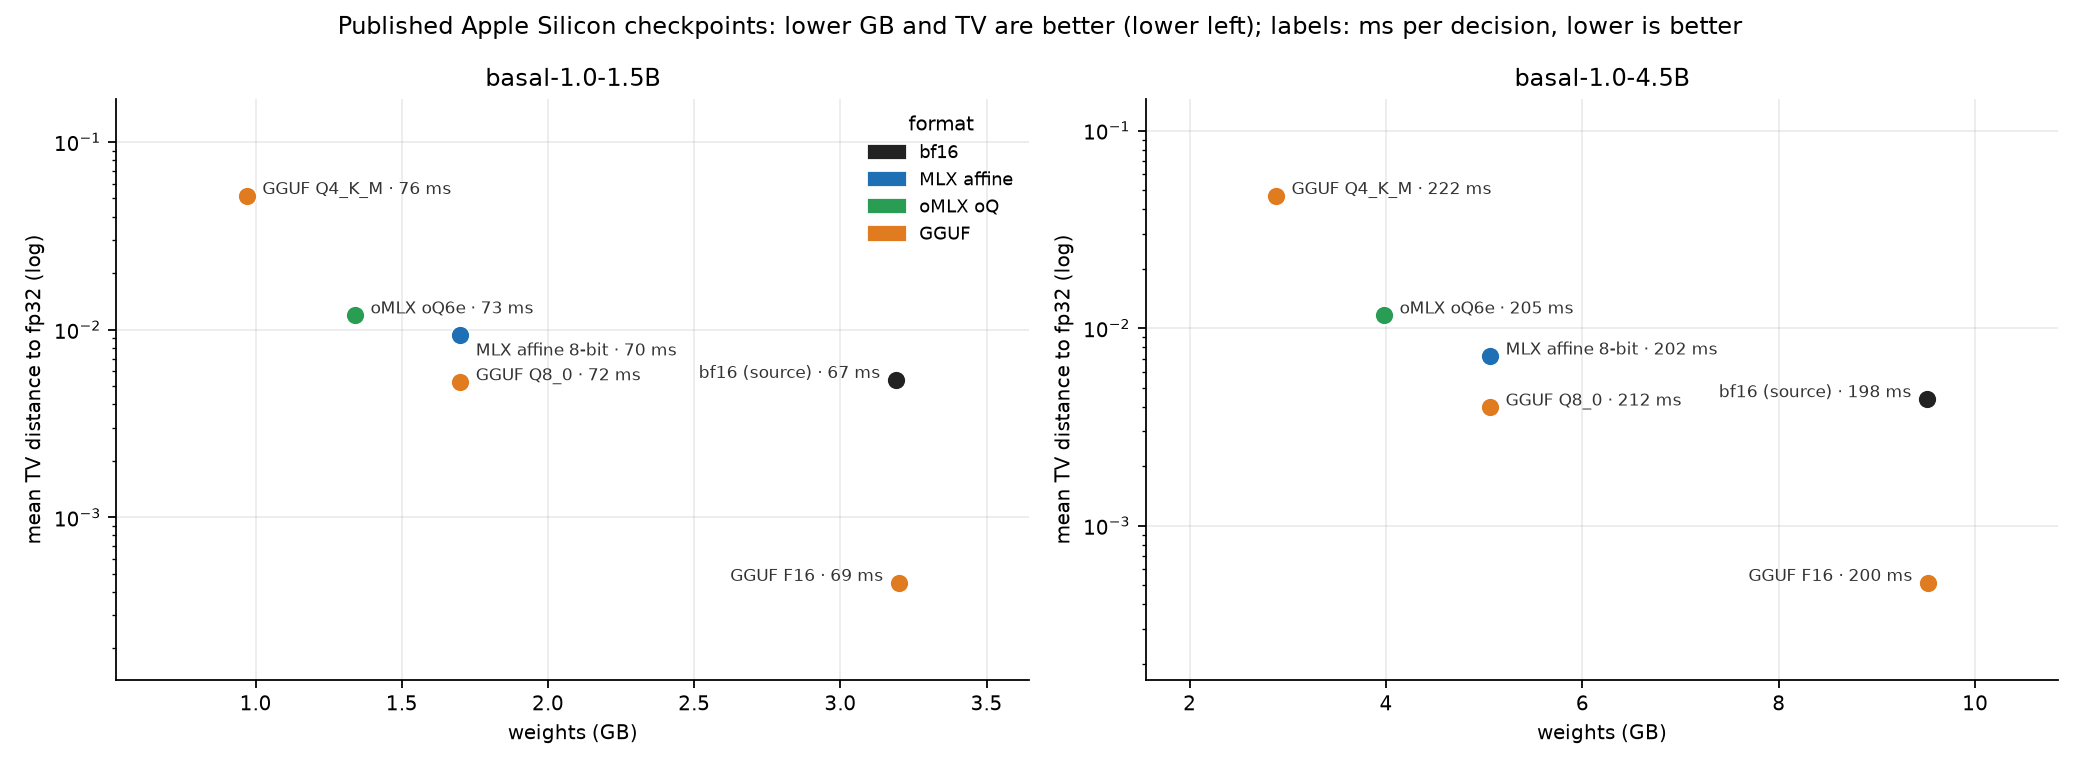
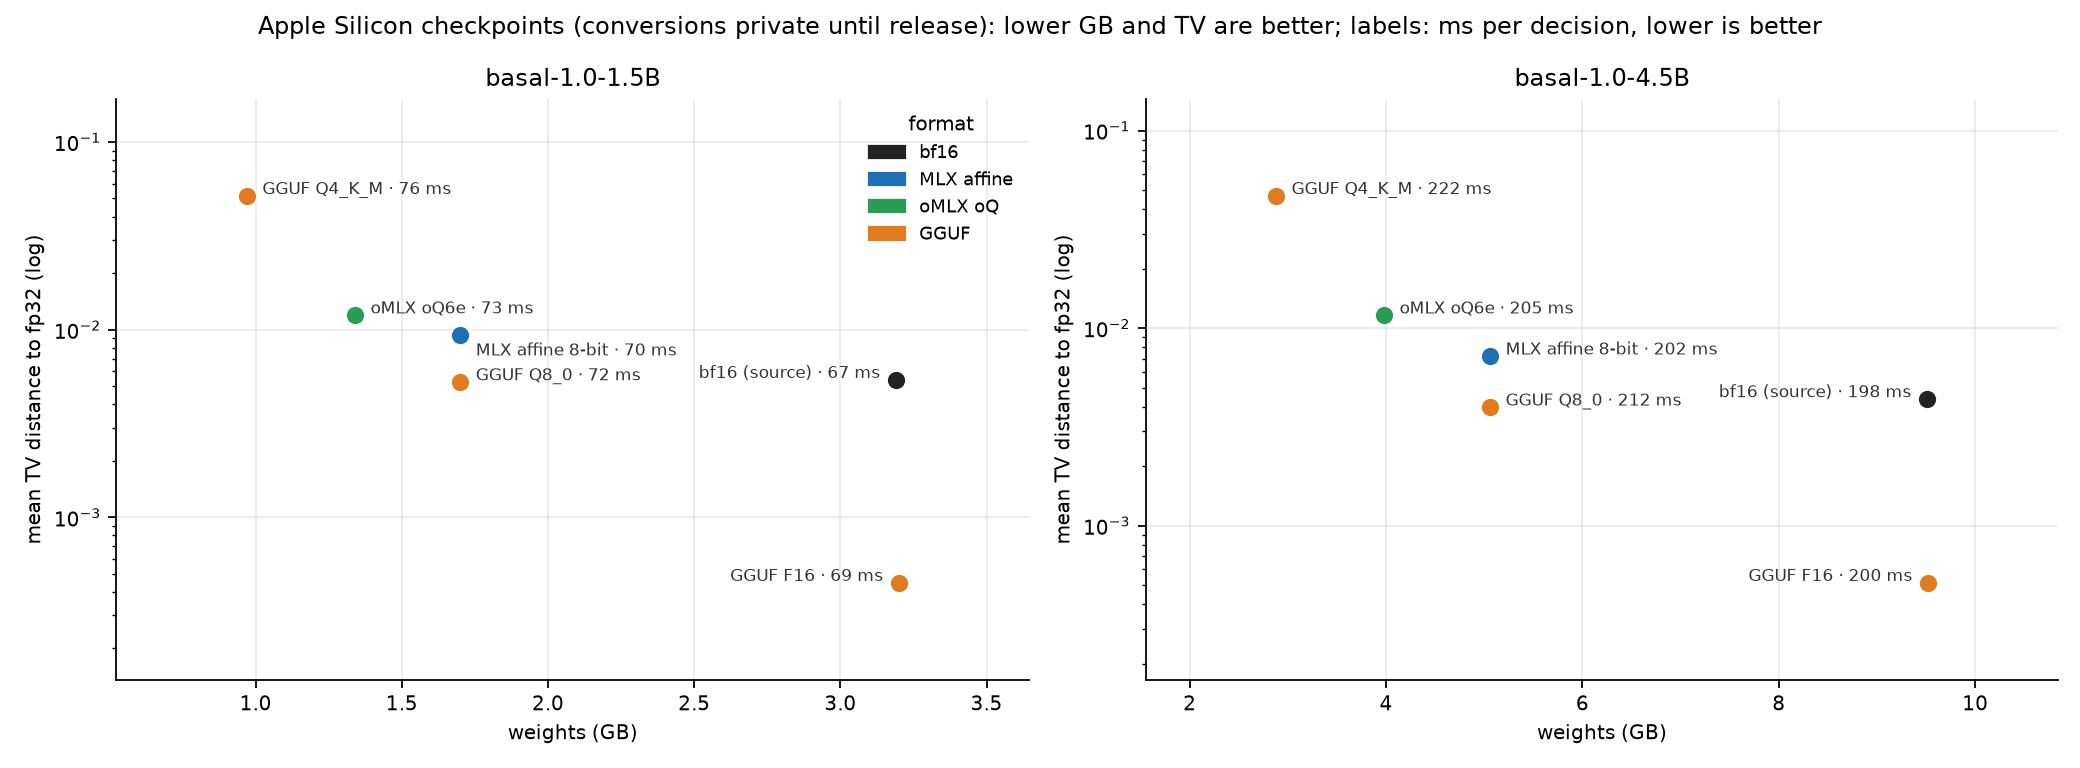
docs: mark converted checkpoints private until release

Changed region(s): [[0.125, 0.0, 0.875, 0.0625]]

diff --git a/docs/figures/make_figures.py b/docs/figures/make_figures.py
@@ -233,15 +233,15 @@ def gold_prob_heatmap():
     fig.savefig(HERE / "apple_gold_prob_heatmap.png")
 
 
-# checkpoints published on Hugging Face (README, "Ready-made Apple Silicon checkpoints"); keys of D["formats"]
-PUBLISHED = {"basal-mlx", "basal-gguf:F16", "basal-gguf:Q8_0", "basal-gguf:Q4_K_M", "mlx-q8", "mlx-oQ6e"}
+# Selected checkpoints (original bf16 is public; converted repos are private until release); keys of D["formats"]
+SELECTED = {"basal-mlx", "basal-gguf:F16", "basal-gguf:Q8_0", "basal-gguf:Q4_K_M", "mlx-q8", "mlx-oQ6e"}
 
 
 def memory_vs_fidelity():
-    """The published checkpoints of both models: memory vs faithfulness, latency in the labels."""
+    """Selected checkpoints of both models: memory vs faithfulness, latency in the labels."""
     fig, axes = plt.subplots(1, 2, figsize=(13, 4.8))
     for ax, model in zip(axes, ("1.5B", "4.5B")):
-        rows = [r for r in D["formats"][model] if r["key"] in PUBLISHED]
+        rows = [r for r in D["formats"][model] if r["key"] in SELECTED]
         for r in rows:
             ax.scatter(r["gb"], max(r["tv_mean"], TV_FLOOR), s=70, color=FORMAT_COLORS[r["family"]], zorder=3,
                        edgecolor="white", linewidth=0.6)
@@ -253,12 +253,12 @@ def memory_vs_fidelity():
         ax.grid(alpha=0.25)
         if model == "1.5B":
             format_legend(ax, families={r["family"] for r in rows}, loc="upper right", fontsize=8)
-    fig.suptitle("Published Apple Silicon checkpoints: lower GB and TV are better (lower left); "
+    fig.suptitle("Apple Silicon checkpoints (conversions private until release): lower GB and TV are better; "
                  "labels: ms per decision, lower is better", fontsize=11)
     fig.tight_layout()
     fig.canvas.draw()
     for ax, model in zip(axes, ("1.5B", "4.5B")):
-        rows = [r for r in D["formats"][model] if r["key"] in PUBLISHED]
+        rows = [r for r in D["formats"][model] if r["key"] in SELECTED]
         place_labels(ax, [(r["gb"], max(r["tv_mean"], TV_FLOOR),
                            f"{r['label']} · {r['ms']:.0f} ms")
                           for r in sorted(rows, key=lambda r: r["gb"])])
@@ -269,11 +269,11 @@ FORMAT_COLORS = {"bf16": "#222222", "MLX affine": "#1f6fb4", "MLX microscaling":
                  "GGUF": "#e07b1f"}
 
 
-def format_legend(ax, published=False, families=None, **kw):
+def format_legend(ax, selected=False, families=None, **kw):
     handles = [Patch(color=c, label=f) for f, c in FORMAT_COLORS.items() if families is None or f in families]
-    if published:
+    if selected:
         handles.append(plt.Line2D([], [], marker="o", color="w", markerfacecolor="#ccc", markeredgecolor="black",
-                                  markeredgewidth=1.6, markersize=9, label="published on Hugging Face"))
+                                  markeredgewidth=1.6, markersize=9, label="selected (converted repos private)"))
     ax.legend(handles=handles, title="format", frameon=False, **kw)
 
 
@@ -282,9 +282,10 @@ def formats_size_vs_fidelity():
     for ax, model in zip(axes, ("1.5B", "4.5B")):
         rows = D["formats"][model]
         for r in rows:
-            pub = r["key"] in PUBLISHED
-            ax.scatter(r["gb"], max(r["tv_mean"], TV_FLOOR), s=90 if pub else 55, color=FORMAT_COLORS[r["family"]],
-                       zorder=4 if pub else 3, edgecolor="black" if pub else "white", linewidth=1.6 if pub else 0.6)
+            selected = r["key"] in SELECTED
+            ax.scatter(r["gb"], max(r["tv_mean"], TV_FLOOR), s=90 if selected else 55, color=FORMAT_COLORS[r["family"]],
+                       zorder=4 if selected else 3, edgecolor="black" if selected else "white",
+                       linewidth=1.6 if selected else 0.6)
         ax.set_yscale("log")
         ax.margins(x=0.15, y=0.2)
         ax.set_xlabel("weights on disk (GB)")
@@ -292,7 +293,7 @@ def formats_size_vs_fidelity():
         ax.set_title(f"basal-1.0-{model}: {len(rows)} formats (all ~same speed, see table)")
         ax.grid(alpha=0.25, zorder=0)
         if model == "1.5B":
-            format_legend(ax, published=True, loc="upper right")
+            format_legend(ax, selected=True, loc="upper right")
     fig.suptitle(f"Quantised formats on {D['machine']}: lower disk GB and TV are better (lower left)", fontsize=11)
     fig.tight_layout()
     fig.canvas.draw()

diff --git a/README.md b/README.md
@@ -141,19 +141,19 @@ basal-serve --model Remek/basal-1.0-4.5B --mode fast --port 8000
 ### Apple Silicon (MLX / MPS)
 
 On a Mac with an M-series chip no CUDA index is needed: the PyPI torch wheel includes MPS, and the `mlx` extra adds
-[MLX](https://github.com/ml-explore/mlx). These backends are on the fork's `dev` branch, not yet in
-[`rkinas/basal`](https://github.com/rkinas/basal). After the GGUF/Ollama PR merges into `dev`, install both from
-there; to try that PR before the merge, substitute `feat/gguf-llamacpp` for `dev`:
+[MLX](https://github.com/ml-explore/mlx). Both backends are on the fork's `main` branch, not yet in
+[`rkinas/basal`](https://github.com/rkinas/basal). Install from the fork:
 
 ```bash
-git clone --branch dev https://github.com/pawelkiszczak/basal && cd basal
+git clone --branch main https://github.com/pawelkiszczak/basal && cd basal
 uv venv --python 3.12 .venv && source .venv/bin/activate
 uv pip install -e ".[mlx,gguf]"
 basal-serve --model Remek/basal-1.0-4.5B --port 8000        # default on Apple Silicon: --mode mlx
 ```
 
-Ready-made Apple Silicon checkpoints (measured on an M4 Max; all run at the same speed, they differ in memory and in
-how closely they follow the fp32 reference, see [docs/HARDWARE.md](docs/HARDWARE.md#quantised-formats-mlx-omlx-oq-gguf)):
+Ready-made Apple Silicon checkpoints (the converted repos linked below are **private until their publisher releases
+them**; the original bf16 repos are public). Measured on an M4 Max; all run at about the same speed, but differ in
+memory and fidelity ([details](docs/HARDWARE.md#quantised-formats-mlx-omlx-oq-gguf)):
 
 | use | 4.5B | 1.5B | start with |
 |---|---|---|---|
@@ -164,10 +164,10 @@ how closely they follow the fp32 reference, see [docs/HARDWARE.md](docs/HARDWARE
 
 The MLX repositories include `CALIBRATION.json`, so `--model pawelkiszczak/basal-1.0-4.5B-MLX-8bit` is all the server
 needs; for GGUF, `--model` stays the original repository (tokenizer and calibration) and `--gguf` points to the
-downloaded file ([docs/GGUF.md](docs/GGUF.md)). GGUF Q4_K_M is published but not recommended: it changes some
-decisions. The other measured 4-bit formats are not published.
+downloaded file ([docs/GGUF.md](docs/GGUF.md)). GGUF Q4_K_M is staged in a private repo but not recommended: it
+changes some decisions. The other measured 4-bit formats are not staged.
 
-![Published Apple Silicon checkpoints: memory vs faithfulness](docs/figures/apple_memory_vs_fidelity.png)
+![Selected Apple Silicon checkpoints: memory vs faithfulness](docs/figures/apple_memory_vs_fidelity.png)
 
 - `mlx` (default when MLX and mlx-lm are installed) and `mps` (PyTorch) both use the shared prefix and batching of
   `fast`. Neither compiles; startup still includes model download and loading. Agreement with the fp32 reference on the

diff --git a/docs/HARDWARE.md b/docs/HARDWARE.md
@@ -17,7 +17,7 @@ on a private 500-item sample of the Polish/English test split.
 | Desktop with unified memory (DGX Spark GB10) | `fp8` | memory-bandwidth-bound; FP8 halves latency |
 | Batched high-throughput serving on Blackwell | `vllm` + `-NVFP4` checkpoint | 3.2× throughput on the DGX Spark (the only machine where it was measured), but −3 accuracy points |
 | A100 and other GPUs without FP8 (not measured) | `fast` | the bf16 path runs on any sm80+ GPU |
-| Apple Silicon (M-series Mac) | `mlx` with the original checkpoint; `gguf` with the F16 GGUF for the closest match to fp32; 8-bit / oQ6e checkpoints on 16 GB Macs | compute-bound: every format runs at the same speed, quantised weights only save memory; published checkpoints in the [README](../README.md#apple-silicon-mlx--mps), details in [Apple Silicon](#apple-silicon) |
+| Apple Silicon (M-series Mac) | `mlx` with the original checkpoint; `gguf` with the F16 GGUF for the closest match to fp32; 8-bit / oQ6e checkpoints on 16 GB Macs | compute-bound: every format runs at the same speed, quantised weights only save memory; converted repos in the [README](../README.md#apple-silicon-mlx--mps) remain private until release |
 
 Add `--mode fast-exit` to let requests choose `"early_exit": "0.99"` (about 1.15× faster, agreement ≥ 0.99).
 
@@ -207,7 +207,7 @@ the same items are wrong in every faithful engine.
 
 #### Quantised formats: MLX, oMLX oQ, GGUF
 
-Published conversions: [MLX 8-bit](https://huggingface.co/pawelkiszczak/basal-1.0-4.5B-MLX-8bit) and
+Staged conversions (private until the publisher releases them): [MLX 8-bit](https://huggingface.co/pawelkiszczak/basal-1.0-4.5B-MLX-8bit) and
 [oQ6e](https://huggingface.co/pawelkiszczak/basal-1.0-4.5B-oQ6e) of the 4.5B,
 [MLX 8-bit](https://huggingface.co/pawelkiszczak/basal-1.0-1.5B-MLX-8bit) and
 [oQ6e](https://huggingface.co/pawelkiszczak/basal-1.0-1.5B-oQ6e) of the 1.5B (with `CALIBRATION.json`, for
@@ -247,7 +247,7 @@ cool-down; *TV*: mean / max total-variation distance to fp32, *changed*: decisio
 | oMLX oQ3e | 0.74 | 69 | 0.1565 / 0.453 | 7 | – | – | – | – |
 | MLX mxfp4 | 0.85 | 71 | 0.2029 / 0.796 | 9 | 2.53 | 204 | 0.1003 / 0.529 | 4 |
 
-![Size vs faithfulness of the quantised formats (ringed: published checkpoints)](figures/apple_formats_size_vs_fidelity.png)
+![Size vs faithfulness of the quantised formats (ringed: selected checkpoints, converted repos private)](figures/apple_formats_size_vs_fidelity.png)
 
 - **No format is faster**: the Apple GPU is compute-bound on these prompts, so every format of a model runs within
   15% of bf16. Quantisation only saves memory.

diff --git a/docs/GGUF.md b/docs/GGUF.md
@@ -9,7 +9,7 @@ order's option block to its own sequence, and all questions of a batch go throug
 
 ## Download
 
-Converted files (F16, Q8_0, Q4_K_M, measured below):
+Converted files (F16, Q8_0, Q4_K_M, measured below; these repos are **private until the publisher releases them**):
 [pawelkiszczak/basal-1.0-4.5B-GGUF](https://huggingface.co/pawelkiszczak/basal-1.0-4.5B-GGUF) and
 [pawelkiszczak/basal-1.0-1.5B-GGUF](https://huggingface.co/pawelkiszczak/basal-1.0-1.5B-GGUF).
 
@@ -74,7 +74,7 @@ call; *TV*: total-variation distance between the averaged two-order probabilitie
 - **Q4_K_M** changes about 5% of the decisions and moves single probabilities by up to 0.3–0.45: not recommended.
 - Weight quantisation does not make prefill faster here: Apple GPUs are compute-bound on these prompts.
 
-![Published Apple Silicon checkpoints: memory vs faithfulness](figures/apple_memory_vs_fidelity.png)
+![Selected Apple Silicon checkpoints: memory vs faithfulness](figures/apple_memory_vs_fidelity.png)
 
 Per-item deviations of every variant and of other engines:
 [HARDWARE.md, inference engines on Apple Silicon](HARDWARE.md#inference-engines-on-apple-silicon).
